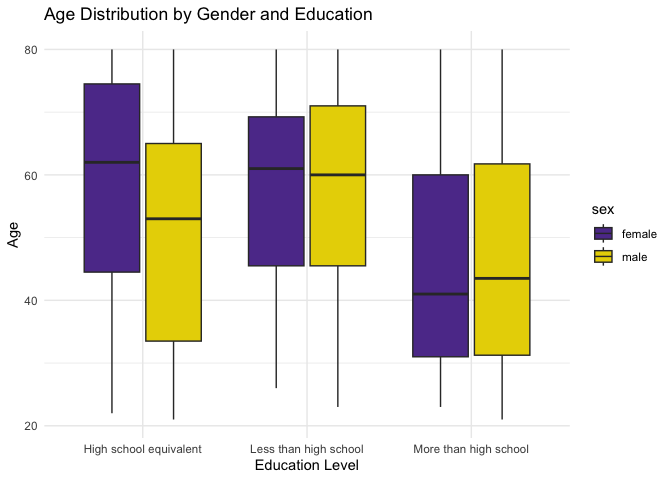
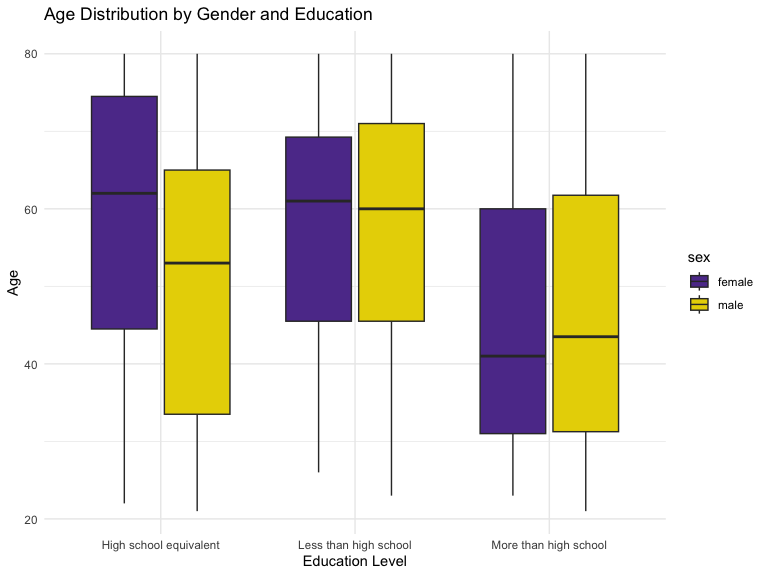
Final Version 2

diff --git a/p8105_hw3_zz3166.md b/p8105_hw3_zz3166.md
@@ -45,6 +45,26 @@ library(kableExtra)
     ## 
     ##     group_rows
 
+``` r
+knitr::opts_chunk$set(
+    echo = TRUE,
+    warning = FALSE,
+    fig.width = 8, 
+  fig.height = 6,
+  out.width = "90%"
+)
+
+theme_set(theme_minimal() + theme(legend.position = "bottom"))
+
+options(
+  ggplot2.continuous.colour = "viridis",
+  ggplot2.continuous.fill = "viridis"
+)
+
+scale_colour_discrete = scale_colour_viridis_d
+scale_fill_discrete = scale_fill_viridis_d
+```
+
 # Problem 2
 
 Accelerometers provide an objective method to study physical activity in
@@ -157,7 +177,7 @@ ggplot(merged_data, aes(x = education, y = age, fill = sex)) +
   scale_fill_manual(values = c("male" = "#e7d400", "female" = "#5e3c99")) # Optional: Add custom colors for clarity
 ```
 
-![](p8105_hw3_zz3166_files/figure-gfm/unnamed-chunk-4-1.png)<!-- -->
+<img src="p8105_hw3_zz3166_files/figure-gfm/unnamed-chunk-4-1.png" width="90%" />
 
 **Commentary**: The boxplot shows that participants with less education
 (“Less than high school”) tend to be older, with both men and women
@@ -193,7 +213,7 @@ ggplot(total_activity_data, aes(x = age, y = total_activity, color = sex)) +
 
     ## `geom_smooth()` using formula = 'y ~ x'
 
-![](p8105_hw3_zz3166_files/figure-gfm/unnamed-chunk-5-1.png)<!-- -->
+<img src="p8105_hw3_zz3166_files/figure-gfm/unnamed-chunk-5-1.png" width="90%" />
 
 **Commentary**: The plot shows that total activity decreases with age
 across all education levels for both men and women. The trend is more
@@ -227,7 +247,7 @@ ggplot(time_course_data, aes(x = minute, y = MIMS_value, color = sex)) +
 
     ## `geom_smooth()` using method = 'gam' and formula = 'y ~ s(x, bs = "cs")'
 
-![](p8105_hw3_zz3166_files/figure-gfm/unnamed-chunk-6-1.png)<!-- -->
+<img src="p8105_hw3_zz3166_files/figure-gfm/unnamed-chunk-6-1.png" width="90%" />
 
 **Commentary**: The plot shows similar 24-hour activity patterns for men
 and women across all education levels, with peaks during the day and
@@ -527,13 +547,7 @@ ggplot(median_duration, aes(x = weekdays, y = median_duration, color = month_yea
                                 "jan_2024" = "#2ca02c", "july_2024" = "#d62728"))  # Custom colors for each month_year
 ```
 
-    ## Warning: Using `size` aesthetic for lines was deprecated in ggplot2 3.4.0.
-    ## ℹ Please use `linewidth` instead.
-    ## This warning is displayed once every 8 hours.
-    ## Call `lifecycle::last_lifecycle_warnings()` to see where this warning was
-    ## generated.
-
-![](p8105_hw3_zz3166_files/figure-gfm/unnamed-chunk-11-1.png)<!-- -->
+<img src="p8105_hw3_zz3166_files/figure-gfm/unnamed-chunk-11-1.png" width="90%" />
 
 The plot shows that **July 2020** had longer median ride durations
 across all days of the week compared to **January 2020** and **January
@@ -563,7 +577,7 @@ ggplot(citi_2024_data, aes(x = duration, fill = member_casual)) +
   theme(axis.text.x = element_text(angle = 45, hjust = 1))  # Rotate x-axis labels for clarity
 ```
 
-![](p8105_hw3_zz3166_files/figure-gfm/unnamed-chunk-12-1.png)<!-- -->
+<img src="p8105_hw3_zz3166_files/figure-gfm/unnamed-chunk-12-1.png" width="90%" />
 
 The density plot for **2024** highlights several key patterns in ride
 durations based on membership status, bike type, and seasonality.
